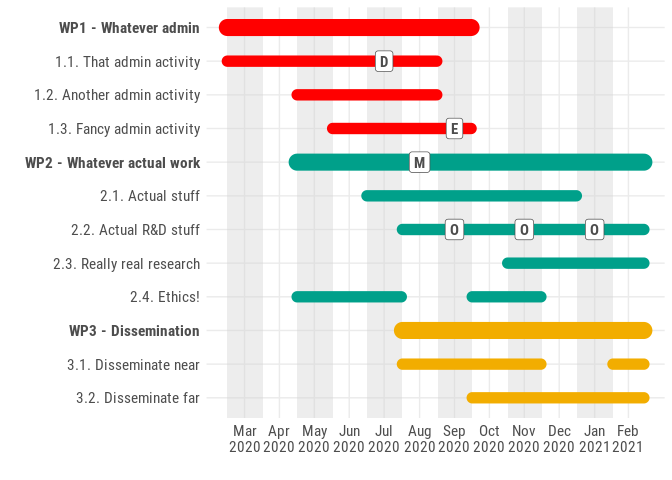
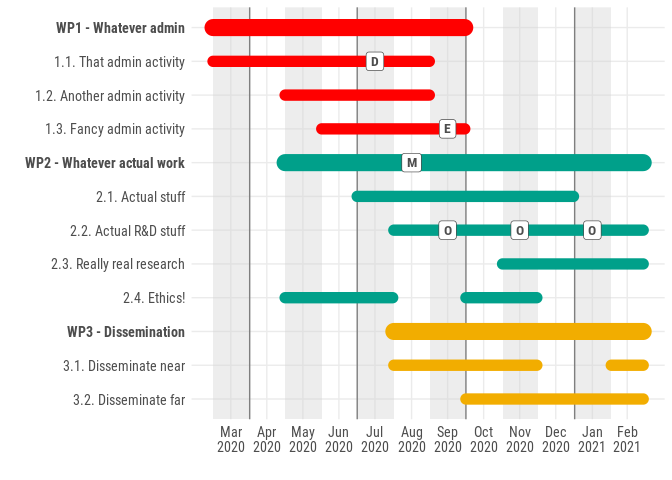
add param to mark quarters

diff --git a/README.md b/README.md
@@ -123,11 +123,17 @@ ganttrify(df = ganttrify::test_project,
 
 <img src="man/figures/README-gantt_charts_with_events-1.png" width="100%" />
 
+“I can’t read the text, can I change the text size?”, I heard. “Also, is
+it possible to outline quarters?”
+
+You’re welcome.
+
 ``` r
 ganttrify(df = ganttrify::test_project,
           spots = ganttrify::test_spots,
           start_date = "2020-03",
-          size_text_relative = 1.3)
+          size_text_relative = 1.2, 
+          mark_quarters = TRUE)
 ```
 
 <img src="man/figures/README-gantt_charts_resized_text-1.png" width="100%" />
